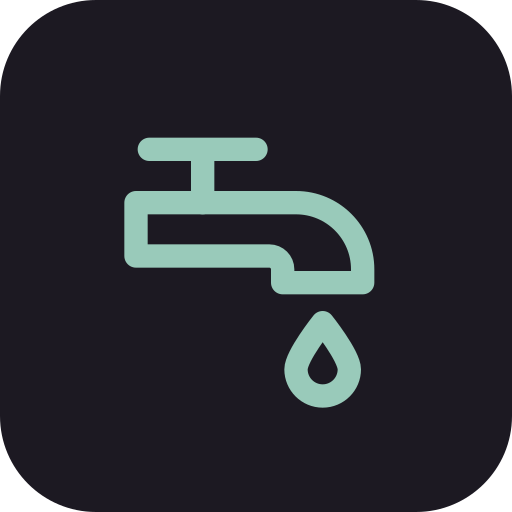
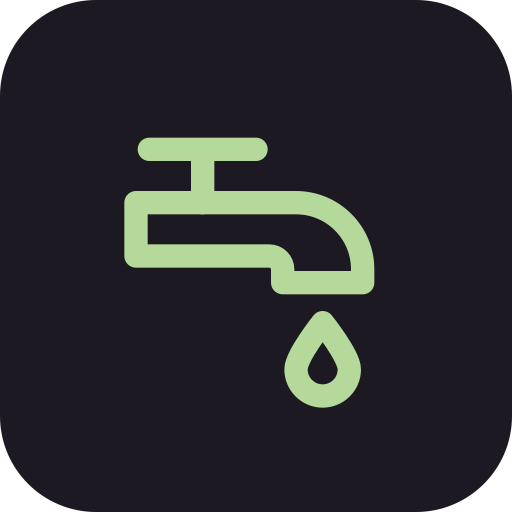
chore(brand): regenerate Faucet leaf-green identity assets

Changed region(s): [[0.2188, 0.25, 0.75, 0.8125]]

diff --git a/static/brand/interface-system.css b/static/brand/interface-system.css
@@ -1,4 +1,4 @@
 /* Generated from the canonical Signal declarations in interface.css. */
 :root{color-scheme:light}
 :root[data-diesis-theme="dark"]{color-scheme:dark}
-@media (prefers-color-scheme: dark){:root:not([data-diesis-theme="light"]){color-scheme:dark; --ds-bg: #1c1922; --ds-panel: #25212c; --ds-subtle: #312b38; --ds-ink: #f7f0e8; --ds-muted: #c7bbc9; --ds-line: #514656; --ds-control-border: #8e7e97; --ds-accent: #efb08a; --ds-accent-soft: #46332e; --ds-on-accent: #2d1b16; --ds-error: #ff9db4; --ds-success: #91c7a8; --ds-warning: #edc272; --diesis-surface-rgb: 28 25 34; --ds-warm: #cbb3ee; --ds-shadow: 0 12px 40px #00000018; --diesis-app-site: #efb08a; --diesis-app-portal: #98c7ed; --diesis-app-explorer: #c8aaed; --diesis-app-exchange: #dec970; --diesis-app-mpc: #93cad5; --diesis-app-mcp: #efa4bd; --diesis-app-faucet: #99caba; --diesis-app-core: #aab8ef; --ds-app-stripe-width: 3px; --diesis-font-editorial: "Iowan Old Style", "Palatino Linotype", Georgia, serif; --diesis-font-display: "Avenir Next", ui-sans-serif, system-ui, sans-serif; --diesis-font-sans: -apple-system, BlinkMacSystemFont, "Segoe UI", sans-serif; --color-surface: var(--ds-bg); --color-surface-elevated: var(--ds-panel); --color-surface-sunken: var(--ds-subtle); --color-text-primary: var(--ds-ink); --color-text-secondary: var(--ds-muted); --color-text-muted: var(--ds-muted); --color-text-inverse: var(--ds-on-accent); --color-border: var(--ds-line); --color-border-subtle: var(--ds-line); --color-accent-primary: var(--ds-accent); --color-accent-primary-soft: var(--ds-accent-soft); --color-link: var(--ds-accent); --color-error: var(--ds-error); --diesis-primary: var(--ds-accent); --diesis-primary-text: var(--ds-on-accent); --diesis-primary-hover: var(--ds-accent); --diesis-surface: var(--ds-bg); --diesis-surface-raised: var(--ds-panel); --diesis-surface-soft: var(--ds-subtle); --diesis-surface-sunken: var(--ds-subtle); --diesis-surface-strong: var(--ds-subtle); --diesis-surface-subtle: var(--ds-panel); --diesis-panel: var(--ds-panel); --diesis-panel-solid: var(--ds-panel); --diesis-panel-strong: var(--ds-subtle); --diesis-panel-translucent: color-mix( in srgb, var(--ds-panel) 94%, transparent ); --diesis-surface-empty: var(--ds-panel); --diesis-surface-auth: var(--ds-accent-soft); --diesis-surface-protected: color-mix( in srgb, var(--ds-error) 8%, var(--ds-panel) ); --diesis-text: var(--ds-ink); --diesis-text-strong: var(--ds-ink); --diesis-text-muted: var(--ds-muted); --diesis-text-soft: var(--ds-muted); --diesis-text-inverse: var(--ds-on-accent); --diesis-border: var(--ds-line); --diesis-border-subtle: var(--ds-line); --diesis-border-strong: var(--ds-muted); --diesis-control-border: var(--ds-control-border); --diesis-separator: var(--ds-line); --diesis-secondary: var(--ds-panel); --diesis-secondary-text: var(--ds-ink); --diesis-accent: var(--ds-accent); --diesis-accent-2: var(--diesis-app-mpc); --diesis-tertiary: var(--ds-warm); --diesis-tertiary-text: var(--ds-ink); --diesis-row-hover: var(--ds-accent-soft); --diesis-nav-active-bg: var(--ds-accent-soft); --diesis-focus: var(--ds-accent); --diesis-focus-ring: 0 0 0 2px var(--ds-accent); --diesis-link: var(--ds-accent); --diesis-danger: var(--ds-error); --diesis-danger-soft: color-mix( in srgb, var(--ds-error) 10%, var(--ds-panel) ); --diesis-success: var(--ds-success); --diesis-success-soft: color-mix( in srgb, var(--ds-success) 10%, var(--ds-panel) ); --diesis-warning: var(--ds-warning); --diesis-warning-soft: color-mix( in srgb, var(--ds-warning) 10%, var(--ds-panel) ); --diesis-shadow: var(--ds-shadow); --diesis-shadow-soft: var(--ds-shadow); --dx-chart-bg: var(--ds-panel); --dx-chart-text: var(--ds-ink); --dx-chart-grid: var(--ds-line); --dx-chart-border: var(--ds-line);}}
+@media (prefers-color-scheme: dark){:root:not([data-diesis-theme="light"]){color-scheme:dark; --ds-bg: #1c1922; --ds-panel: #25212c; --ds-subtle: #312b38; --ds-ink: #f7f0e8; --ds-muted: #c7bbc9; --ds-line: #514656; --ds-control-border: #8e7e97; --ds-accent: #efb08a; --ds-accent-soft: #46332e; --ds-on-accent: #2d1b16; --ds-error: #ff9db4; --ds-success: #91c7a8; --ds-warning: #edc272; --diesis-surface-rgb: 28 25 34; --ds-warm: #cbb3ee; --ds-shadow: 0 12px 40px #00000018; --diesis-app-site: #efb08a; --diesis-app-portal: #98c7ed; --diesis-app-explorer: #c8aaed; --diesis-app-exchange: #dec970; --diesis-app-mpc: #93cad5; --diesis-app-mcp: #efa4bd; --diesis-app-faucet: #b4d99b; --diesis-app-core: #aab8ef; --ds-app-stripe-width: 3px; --diesis-font-editorial: "Iowan Old Style", "Palatino Linotype", Georgia, serif; --diesis-font-display: "Avenir Next", ui-sans-serif, system-ui, sans-serif; --diesis-font-sans: -apple-system, BlinkMacSystemFont, "Segoe UI", sans-serif; --color-surface: var(--ds-bg); --color-surface-elevated: var(--ds-panel); --color-surface-sunken: var(--ds-subtle); --color-text-primary: var(--ds-ink); --color-text-secondary: var(--ds-muted); --color-text-muted: var(--ds-muted); --color-text-inverse: var(--ds-on-accent); --color-border: var(--ds-line); --color-border-subtle: var(--ds-line); --color-accent-primary: var(--ds-accent); --color-accent-primary-soft: var(--ds-accent-soft); --color-link: var(--ds-accent); --color-error: var(--ds-error); --diesis-primary: var(--ds-accent); --diesis-primary-text: var(--ds-on-accent); --diesis-primary-hover: var(--ds-accent); --diesis-surface: var(--ds-bg); --diesis-surface-raised: var(--ds-panel); --diesis-surface-soft: var(--ds-subtle); --diesis-surface-sunken: var(--ds-subtle); --diesis-surface-strong: var(--ds-subtle); --diesis-surface-subtle: var(--ds-panel); --diesis-panel: var(--ds-panel); --diesis-panel-solid: var(--ds-panel); --diesis-panel-strong: var(--ds-subtle); --diesis-panel-translucent: color-mix( in srgb, var(--ds-panel) 94%, transparent ); --diesis-surface-empty: var(--ds-panel); --diesis-surface-auth: var(--ds-accent-soft); --diesis-surface-protected: color-mix( in srgb, var(--ds-error) 8%, var(--ds-panel) ); --diesis-text: var(--ds-ink); --diesis-text-strong: var(--ds-ink); --diesis-text-muted: var(--ds-muted); --diesis-text-soft: var(--ds-muted); --diesis-text-inverse: var(--ds-on-accent); --diesis-border: var(--ds-line); --diesis-border-subtle: var(--ds-line); --diesis-border-strong: var(--ds-muted); --diesis-control-border: var(--ds-control-border); --diesis-separator: var(--ds-line); --diesis-secondary: var(--ds-panel); --diesis-secondary-text: var(--ds-ink); --diesis-accent: var(--ds-accent); --diesis-accent-2: var(--diesis-app-mpc); --diesis-tertiary: var(--ds-warm); --diesis-tertiary-text: var(--ds-ink); --diesis-row-hover: var(--ds-accent-soft); --diesis-nav-active-bg: var(--ds-accent-soft); --diesis-focus: var(--ds-accent); --diesis-focus-ring: 0 0 0 2px var(--ds-accent); --diesis-link: var(--ds-accent); --diesis-danger: var(--ds-error); --diesis-danger-soft: color-mix( in srgb, var(--ds-error) 10%, var(--ds-panel) ); --diesis-success: var(--ds-success); --diesis-success-soft: color-mix( in srgb, var(--ds-success) 10%, var(--ds-panel) ); --diesis-warning: var(--ds-warning); --diesis-warning-soft: color-mix( in srgb, var(--ds-warning) 10%, var(--ds-panel) ); --diesis-shadow: var(--ds-shadow); --diesis-shadow-soft: var(--ds-shadow); --dx-chart-bg: var(--ds-panel); --dx-chart-text: var(--ds-ink); --dx-chart-grid: var(--ds-line); --dx-chart-border: var(--ds-line);}}

diff --git a/static/brand/interface.css b/static/brand/interface.css
@@ -24,7 +24,7 @@
   --diesis-app-exchange: #7b641d;
   --diesis-app-mpc: #386b75;
   --diesis-app-mcp: #a33f5e;
-  --diesis-app-faucet: #376b61;
+  --diesis-app-faucet: #41652e;
   --diesis-app-core: #4f5d96;
 }
 
@@ -51,7 +51,7 @@
   --diesis-app-exchange: #dec970;
   --diesis-app-mpc: #93cad5;
   --diesis-app-mcp: #efa4bd;
-  --diesis-app-faucet: #99caba;
+  --diesis-app-faucet: #b4d99b;
   --diesis-app-core: #aab8ef;
 }
 
